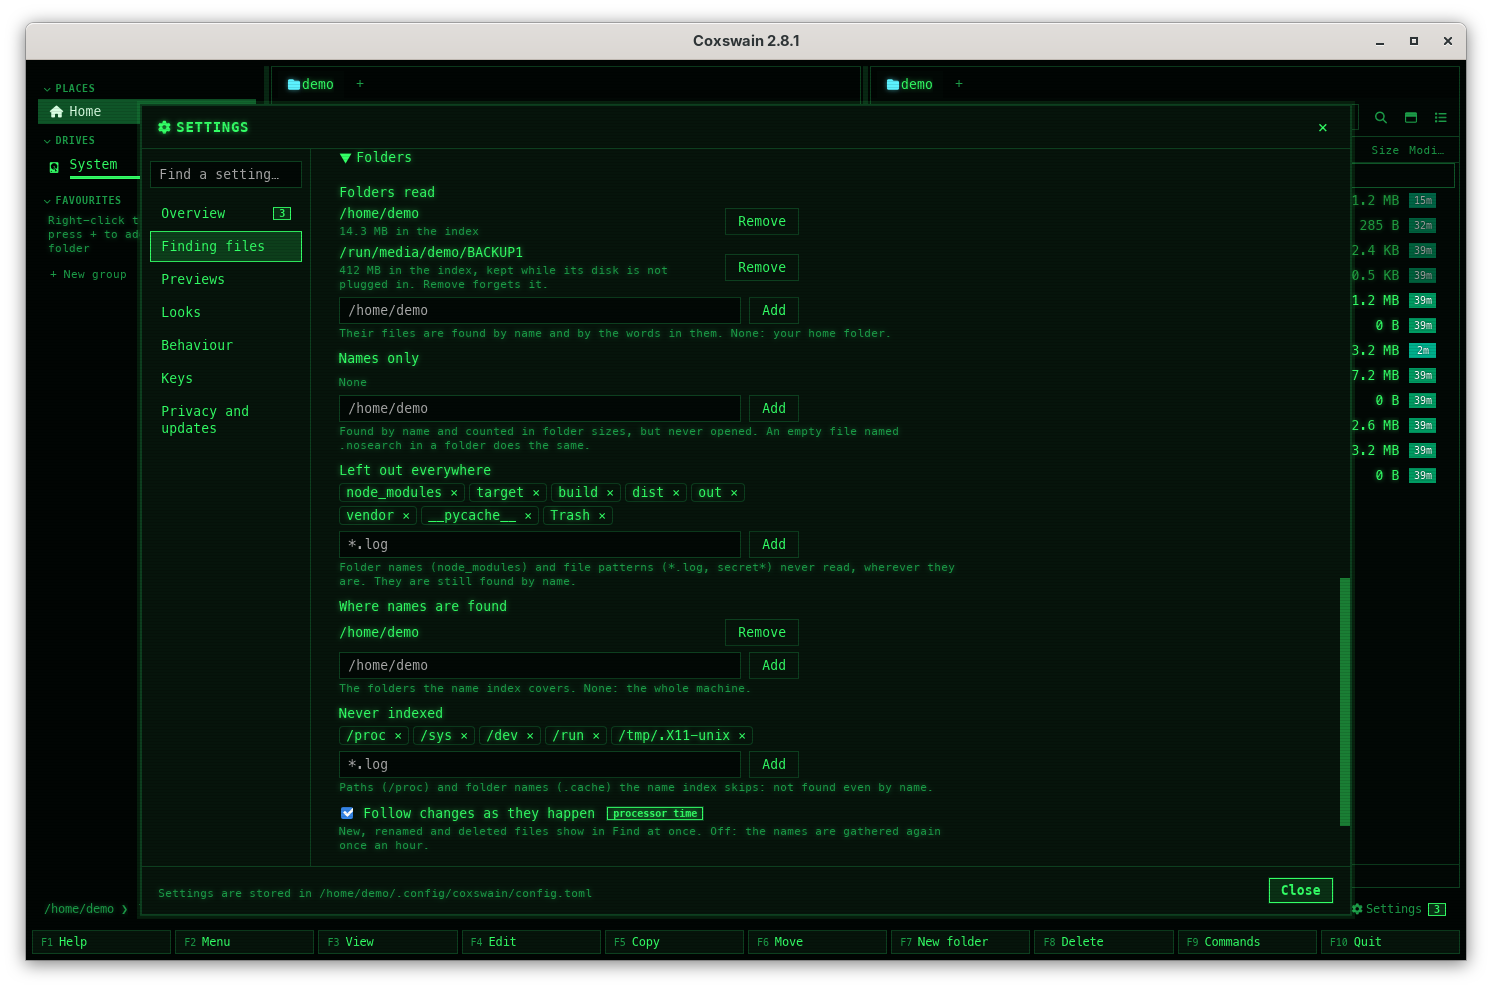
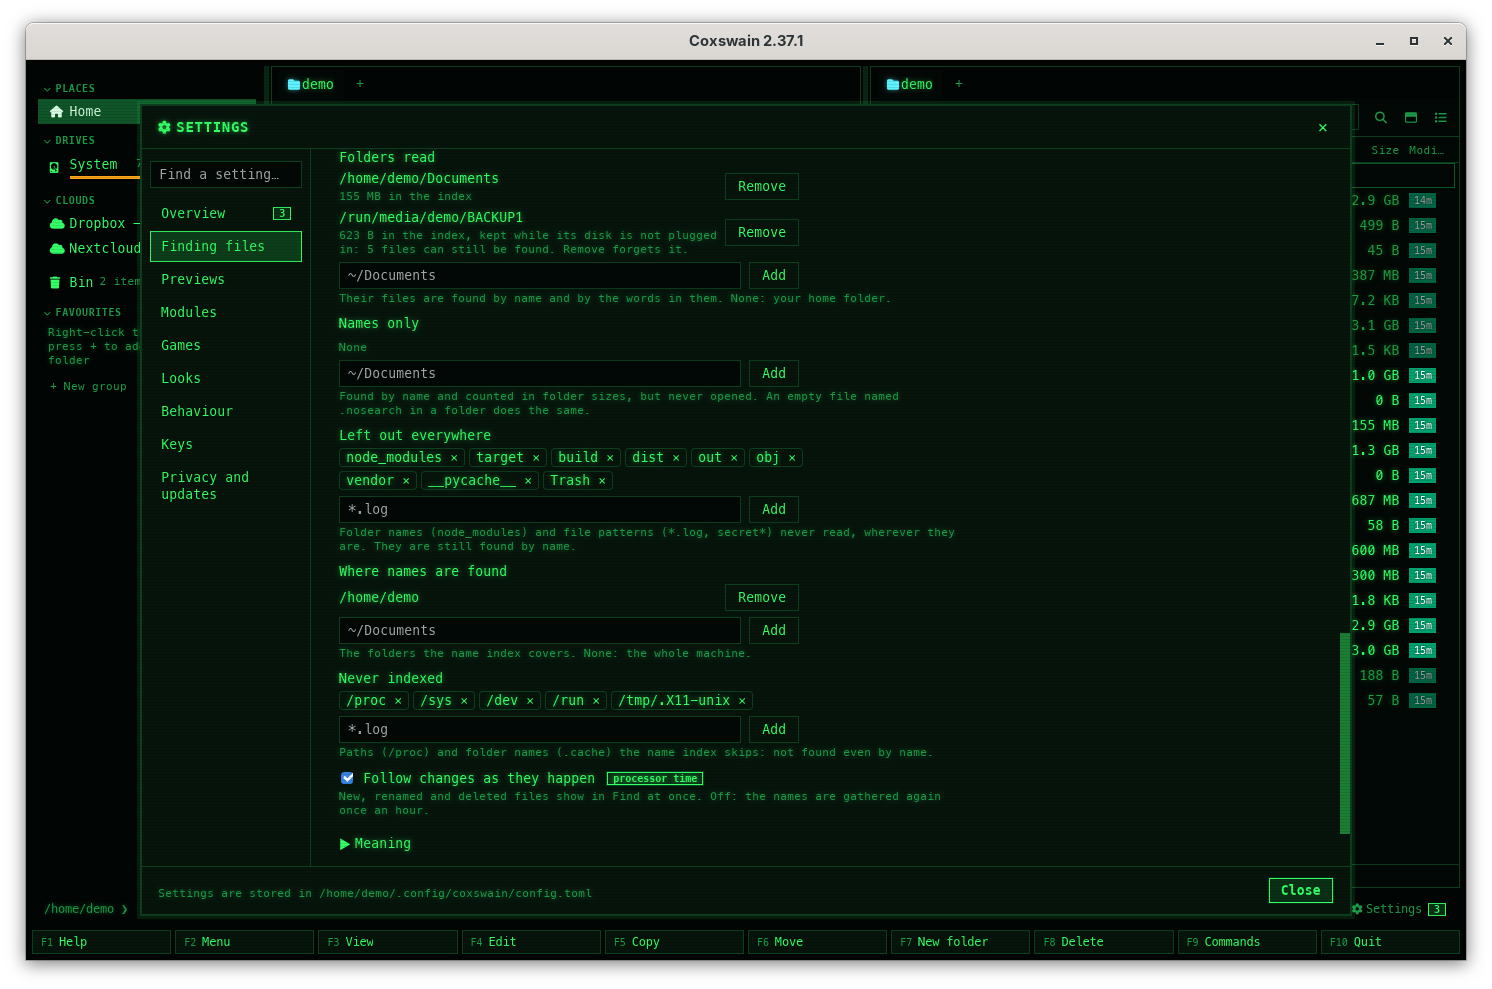
Removable disks: pictures of Find, Ask and Settings with a disk that is not plugged in (#1010) (#1117)

diff --git a/docs/screenshots/scenes.py b/docs/screenshots/scenes.py
@@ -319,6 +319,8 @@ scene("tui-settings-themes.png", args=at("tui_theme"), guide=False, keys=["wait:
 scene("tui-settings-modules.png", keys=START + ["F12", "wait:1", "Right", "Right", "Right", "wait:1", "Down*14"],
       config='modules.off = ["games"]\n')
 scene("tui-search.png", keys=START + ["M-F7", "type:*.rs|*.toml src/", "wait:3"])
+# Needs a disk that was read and is gone: DEMO_HOME with /run/media/demo/BACKUP1 read (bound in for a first run), then run without it.
+scene("search-away-find-tui.png", keys=START + ["wait:20", "C-f", "type:orbit", "wait:5"])
 scene("tui-text-search.png", keys=START + ["M-F7", "type:engine", "Tab", "wait:3"])
 
 scene("tui-git-facts.png", args=["/home/demo/projects", "/home/demo/projects/rocket"], size=(200, 18),

diff --git a/docs/search/removable-disks.md b/docs/search/removable-disks.md
@@ -18,9 +18,7 @@ can still be found by name, words and meaning, and Ask can answer from them; eac
 - [In the terminal app](#in-the-terminal-app)
 - [Questions](#questions)
 
-![Settings → Finding files → Details → Folders: Folders read lists /home/demo (14.3 MB in the index) and /run/media/demo/BACKUP1 with 412 MB in the index, kept while its disk is not plugged in. Remove forgets it., each with Remove](../screenshots/search-removable-away.png)
-
-<!-- screenshot: search-removable-away.png: retake, Settings → Finding files → Details → Folders with /run/media/demo/BACKUP1 saying "412 MB in the index, kept while its disk is not plugged in: 1,204 files can still be found. Remove forgets it." -->
+![Settings → Finding files → Details → Folders: Folders read lists /home/demo/Documents (155 MB in the index) and /run/media/demo/BACKUP1 with 623 B in the index, kept while its disk is not plugged in: 5 files can still be found. Remove forgets it., each with Remove](../screenshots/search-removable-away.png)
 
 ## How to use it
 
@@ -64,14 +62,15 @@ disk are not found by name while it is away, and neither are files inside its ar
 Under the list, one more line names every disk that is away and has hits: *Not plugged in:
 BACKUP1. Their hits are shown · Enter: hide them* (see [Hiding the hits](#hiding-the-hits-of-a-disk-that-is-away)).
 
-<!-- screenshot: search-away-find.gif: desktop app (Cyber), Find for "orbit" with a hit on BACKUP1 marked "on BACKUP1 — not plugged in" and the line "Not plugged in: BACKUP1" under the list; the disk is then mounted at another place under /run/media and the mark goes, with nothing read again (with its first-frame still search-away-find.png) -->
-<!-- screenshot: search-away-find-tui.png: terminal app (Classic blue), Find for "orbit" with a hit marked [on BACKUP1 — not plugged in] and the line under the list -->
+<picture><source media="(prefers-reduced-motion: reduce)" srcset="../screenshots/search-away-find.png"><img src="../screenshots/search-away-find.gif" alt="Find for orbit in the desktop app: hits on BACKUP1 each with the badge on BACKUP1 — not plugged in, and under the list the line Not plugged in: BACKUP1. Their hits are shown · Enter: hide them. Enter on that line hides the hits and the line says they are hidden; Enter again shows them"></picture>
+
+![Find for orbit in the terminal app: hits on BACKUP1 each with [on BACKUP1 — not plugged in] at the right of its line, and under the list the line Not plugged in: BACKUP1. Their hits are shown · Enter: hide them](../screenshots/search-away-find-tui.png)
 
 **In Ask**, a source on a disk that is away has the same mark after its folder, in both apps.
 
-<!-- screenshot: search-away-ask.png: desktop app (Cyber), an Ask answer citing a source on BACKUP1 with its badge "on BACKUP1 — not plugged in" -->
+![Ask in the desktop app: the answer The orbit insertion burn needs 42 tonnes of fuel [1], and the sources orbit-insertion-notes.txt and orbit-budget.txt, each on /run/media/demo/BACKUP1/papers with the badge on BACKUP1 — not plugged in](../screenshots/search-away-ask.png)
 
-**In Settings**, under *Folders read*: *412 MB in the index* while the disk is there, and *412 MB
+**In Settings**, under *Folders read* (here with a small disk): *412 MB in the index* while the disk is there, and *412 MB
 in the index, kept while its disk is not plugged in: 1,204 files can still be found. Remove
 forgets it.* while it is away.
 
